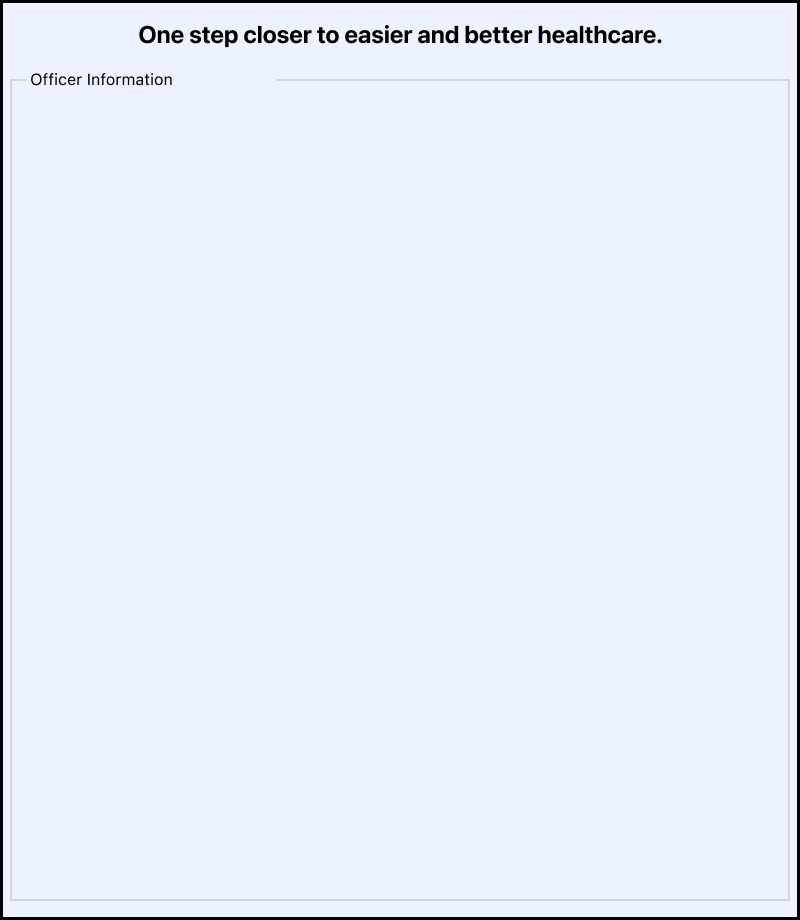
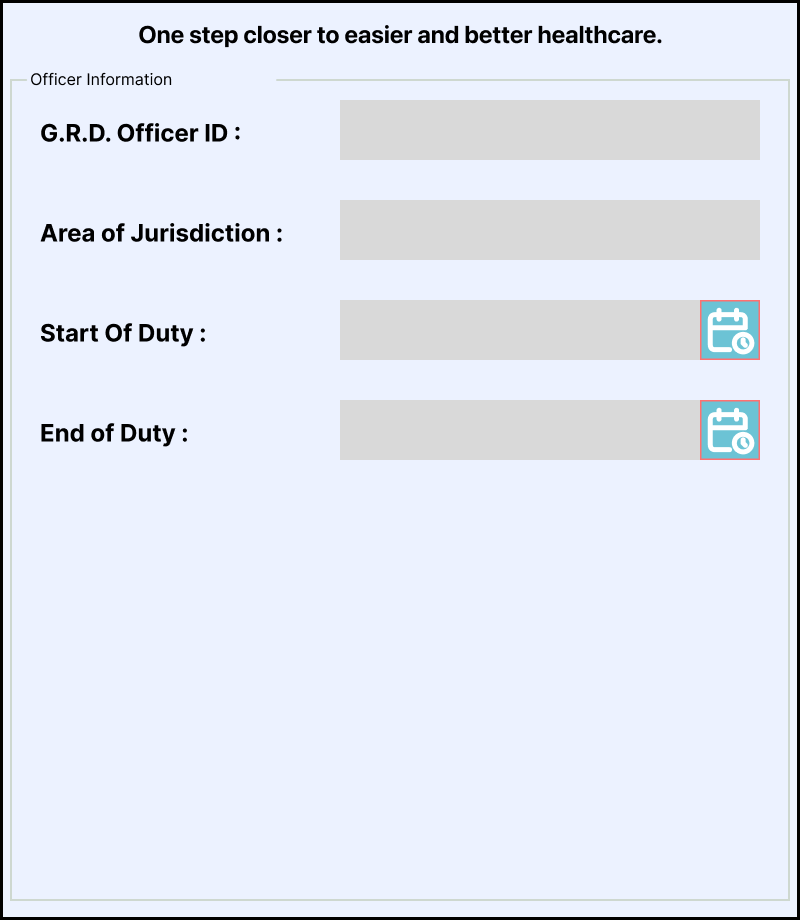
added grd registration and wip adding clinic linking and doctor reg

diff --git a/views/registrationForms/officerForm.py b/views/registrationForms/officerForm.py
@@ -6,6 +6,7 @@ import calendar
 import re
 import threading
 from tkinter import *
+from views.citystatesdict import states_dict
 from tkinter import messagebox
 from prisma.models import Appointment
 from ttkbootstrap.constants import *
@@ -38,6 +39,15 @@ class OfficerRegistrationForm(Frame):
     def createFrames(self):
         pass
 
+    def createLabels(self):
+        self.roleImg = self.controller.labelCreator(
+            ipath="assets/Registration/OfficerFormButton.png",
+            x=60, y=880, classname="roleimg", root=self.parent,
+        )
+
+    def initializeFormVars(self):
+        self.vars = {k: StringVar() for k in self.optList}
+
     def createElements(self):
         self.controller.labelCreator(
             ipath="assets/Registration/Officer/OfficerSignUpForm.png",
@@ -45,34 +55,91 @@ class OfficerRegistrationForm(Frame):
         )
         self.createLabels()
         self.createButtons()
-
-    def createLabels(self):
-        self.roleImg = self.controller.labelCreator(
-            ipath="assets/Registration/OfficerFormButton.png",
-            x=60, y=880, classname="roleimg", root=self.parent,
-        )
+        self.createEntries()
+        self.initializeFormVars()
 
     def createButtons(self):
-        OPT1STR = "Government Registered Doctor"
-        OPT2STR = "Area of Jurisdiction"
-        OPT3STR = "Other Information"
-        optList = [OPT1STR, OPT2STR, OPT3STR]
-        # creating a button arrangement of two per row
-        # iterates over the list of options and creates a button for each
-        for i, option in enumerate(optList):
-            x = 40 if i % 2 == 0 else 420
-            y = 120 + (i // 2) * 120
-            self.controller.textElement(
-                ipath="assets/Registration/Patient/PatientButtonOptionBg.png",
-                x=x, y=y, classname="formoption" + str(i + 1), root=self,
-                text=option, size=20, font=INTER,
-                buttonFunction=lambda o=option: self.loadSpecificSubmission(o)
-            )
         self.completeRegBtn = self.controller.buttonCreator(
             ipath="assets/Registration/CompleteRegButton.png",
             x=1420, y=880, classname="completeregbutton", root=self.parent,
             buttonFunction=lambda: self.confirmSubmission()
         )
+
+    def createEntries(self):
+        self.OPT1STR = "Government Registered Doctor ID"
+        self.OPT2STR = "Area of Jurisdiction"
+        self.OPT3STR = "Start of Duty"
+        self.OPT4STR = "End of Duty"
+        self.optList = [self.OPT1STR, self.OPT2STR, self.OPT3STR, self.OPT4STR]
+        X, Y, W, H, R, CN, PH = "x", "y", "width", "height", "root", "classname", "placeholder"
+        statelist = list(states_dict.keys())
+        ENTCREATOR = self.controller.ttkEntryCreator
+        param = {
+            self.OPT1STR: {
+                X: 340,
+                Y: 100,
+                W: 420,
+                H: 60,
+                CN: "grdidentry",
+                R: self,
+                PH: "Enter your GRD ID",
+            },
+            "startOfDuty": {
+                X: 340,
+                Y: 300,
+                W: 360,
+                H: 60,
+                CN: "startofdutyentry",
+                R: self,
+                PH: "Select Start of Duty",
+            },
+            "endOfDuty": {
+                X: 340,
+                Y: 400,
+                W: 360,
+                H: 60,
+                CN: "endofdutyentry",
+                R: self,
+                PH: "Select End of Duty",
+            }
+        }
+        for p in param:
+            ENTCREATOR(**param[p])
+        WD = self.controller.widgetsDict
+        self.jurisdictionState = StringVar()
+        self.controller.menubuttonCreator(
+            x=340, y=200, width=420, height=60,
+            root=self, classname="stateofjurisdiction",
+            text=f"Please Select State", listofvalues=statelist,
+            variable=self.jurisdictionState, font=("Helvetica", 12),
+            command=lambda: [None]
+        )
+
+        self.startDatePicker = self.controller.buttonCreator(
+            ipath="assets/Registration/DatePicker.png",
+            x=700, y=300, classname="datepicker_start", root=self,
+            buttonFunction=lambda: self.selectDate(
+                self.startDatePicker, WD["startofdutyentry"])
+        )
+        self.endDatePicker = self.controller.buttonCreator(
+            ipath="assets/Registration/DatePicker.png",
+            x=700, y=400, classname="datepicker_end", root=self,
+            buttonFunction=lambda: self.selectDate(
+                self.endDatePicker, WD["endofdutyentry"])
+        )
+
+    def selectDate(self, button: Button, entry: Entry):
+        dialog = DatePickerDialog(
+            parent=button, title="Select Date",
+            firstweekday=0,
+            startdate=dt.date.today(),
+        )
+        if dialog.date_selected is None:
+            return
+        date = dialog.date_selected.strftime("%d/%m/%Y")
+        entry.configure(state="normal")
+        entry.delete(0, END)
+        entry.insert(0, date)
 
     def loadSpecificSubmission(self, option: str):
         print(option)
@@ -90,7 +157,9 @@ class OfficerRegistrationForm(Frame):
         dateStr = self.parent.dateOfBirthEntry.get()  # "%d/%m/%Y"
         # datetimeObj
         dateObj = datetime.strptime(dateStr, "%d/%m/%Y")
-        doctor = prisma.doctor.create(
+        UTC = timezone("UTC")
+        KL = timezone("Asia/Kuala_Lumpur")
+        officer = prisma.govhealthofficer.create(
             data={
                 "user": {
                     "create": {
@@ -110,5 +179,13 @@ class OfficerRegistrationForm(Frame):
                         "country": self.country,
                     }
                 },
+                "govRegId": WD["grdidentry"].get(),
+                "stateManaged": self.jurisdictionState.get().upper().replace(" ", "_"),
+                "startDate": KL.convert(
+                    datetime.strptime(WD["startofdutyentry"].get(), "%d/%m/%Y")
+                ),
+                "endDate": KL.convert(
+                    datetime.strptime(WD["endofdutyentry"].get(), "%d/%m/%Y")
+                )
             }
         )

diff --git a/views/registrationForms/doctorForm.py b/views/registrationForms/doctorForm.py
@@ -10,6 +10,7 @@ from resource.basewindow import ElementCreator, gridGenerator
 from resource.static import *
 from tkinter import *
 
+from ttkbootstrap.scrolled import ScrolledText
 from ttkbootstrap.constants import *
 
 
@@ -24,10 +25,13 @@ class DoctorRegistrationForm(Frame):
         self.prisma = self.controller.mainPrisma
         self.createFrames()
         self.createElements()
-    
 
     def createFrames(self):
-        pass
+        self.inputframe = self.controller.frameCreator(
+            x=40, y=100, framewidth=720, frameheight=780,
+            bg=WHITE, classname="inputframe", root=self
+        )
+        self.inputframe.grid_remove()
 
     def createElements(self):
         self.controller.labelCreator(
@@ -36,6 +40,7 @@ class DoctorRegistrationForm(Frame):
         )
         self.createLabels()
         self.createButtons()
+        self.initializeFormVars()
 
     def createLabels(self):
         self.roleImg = self.controller.labelCreator(
@@ -44,11 +49,11 @@ class DoctorRegistrationForm(Frame):
         )
 
     def createButtons(self):
-        OPT1STR = "Employment History"
-        OPT2STR = "Education History"
-        OPT3STR = "Specialization"
-        OPT4STR = "Other Information"
-        optList = [OPT1STR, OPT2STR, OPT3STR, OPT4STR]
+        self.OPT1STR = "Employment History"
+        self.OPT2STR = "Education History"
+        self.OPT3STR = "Specialization"
+        self.OPT4STR = "Other Information"
+        optList = [self.OPT1STR, self.OPT2STR, self.OPT3STR, self.OPT4STR]
         # creating a button arrangement of two per row
         # iterates over the list of options and creates a button for each
         for i, option in enumerate(optList):
@@ -58,7 +63,7 @@ class DoctorRegistrationForm(Frame):
                 ipath="assets/Registration/Patient/PatientButtonOptionBg.png",
                 x=x, y=y, classname="formoption" + str(i + 1), root=self,
                 text=option, size=20, font=INTER,
-                buttonFunction=lambda o=option: self.loadSpecificSubmission(o)
+                buttonFunction=lambda o=option: self.loadInputForOption(o)
             )
         self.completeRegBtn = self.controller.buttonCreator(
             ipath="assets/Registration/CompleteRegButton.png",
@@ -66,8 +71,54 @@ class DoctorRegistrationForm(Frame):
             buttonFunction=lambda: self.confirmSubmission()
         )
 
-    def loadSpecificSubmission(self, option: str):
-        print(option)
+    def initializeFormVars(self):
+        self.vars = {k: StringVar() for k in [
+            self.OPT1STR, self.OPT2STR, self.OPT3STR, self.OPT4STR]}
+
+    def loadInputForOption(self, option: str):
+        self.loadInfoLabel(option)
+        self.createEditText()
+        if self.vars[option].get() != "":
+            self.inputTextSpace.insert("1.0", self.vars[option].get())
+        self.configSaveClearButtons(option)
+
+    def configSaveClearButtons(self, option):
+        BUTTONCREATOR = self.controller.buttonCreator
+
+        BUTTONCREATOR(
+            ipath="assets/Registration/Patient/Back.png", x=640, y=10,
+            classname="reg_backbutton", root=self.inputframe,
+            buttonFunction=lambda: [self.inputframe.grid_remove()],
+            isPlaced=True
+        )
+        BUTTONCREATOR(
+            ipath="assets/Registration/Patient/ClearText.png", x=100, y=680,
+            classname="reg_cleartextbutton", root=self.inputframe,
+            buttonFunction=lambda: [self.inputTextSpace.delete("1.0", END)],
+        )
+        BUTTONCREATOR(
+            ipath="assets/Registration/Patient/SaveText.png", x=400, y=680,
+            classname="reg_savetext", root=self.inputframe,
+            buttonFunction=lambda: [
+                self.vars[option].set(self.inputTextSpace.get("1.0", "end-1c"))],
+        )
+
+    def createEditText(self):
+        self.inputText = ScrolledText(
+            master=self.inputframe, width=520, height=520, padding=0,
+            bootstyle="success-round", autohide=True)
+        self.inputText.place(x=100, y=140, width=520, height=520)
+        self.inputTextSpace = self.inputText.text
+        self.inputTextSpace.config(font=("Inter", 20), fg=BLACK)
+
+    def loadInfoLabel(self, option):
+        self.inputframe.grid()
+        self.inputframe.tkraise()
+        infolabel = self.controller.textElement(
+            ipath="assets/Registration/InputFormTextBG.png", x=0, y=0,
+            classname="inputformtext", root=self.inputframe, text=f"Input your {option} here",
+            size=30, font=INTER
+        )
 
     def confirmSubmission(self):
         prisma = self.prisma

diff --git a/views/browseClinic/patientBrowse.py b/views/browseClinic/patientBrowse.py
@@ -76,30 +76,28 @@ class PatientBrowseClinic(Frame):
         self.clinicsMap.place(x=0, y=180)
         self.clinicsMap.set_address("Penang, Malaysia")
         self.clinicsMap.set_tile_server(
-            "https://mt0.google.com/vt/lyrs=m&hl=en&x ={x}&y={y}&z={z}&s=Ga", max_zoom=22) 
-        
+            "https://mt0.google.com/vt/lyrs=m&hl=en&x ={x}&y={y}&z={z}&s=Ga", max_zoom=22)
+
     def createFormEntries(self):
         CREATOR = self.controller.ttkEntryCreator
-        FONT = ("Arial", 24)
+        FONT = ("Inter", 16)
 
-        self.patientBrowserSelectAddress = CREATOR(
+        self.patientBrowserEnterAddress = CREATOR(
             x=0, y=80, width=780, height=80,
             root=self, classname="Patient_Browse_Clinic1",
-            font=FONT, isPlaced=True
+            font=FONT, isPlaced=True,
+            placeholder="Enter your address here"
         )
-
-        # Add a placeholder/hint text
-        self.patientBrowserSelectAddress.insert(0, "Enter your address here")
-       
 
         self.patientBrowserSearchClinic = CREATOR(
             x=1494, y=195, width=158, height=75,
             root=self, classname="Patient_Browse_Clinic",
-            font=FONT, isPlaced=True
+            font=FONT, isPlaced=True,
+            placeholder="Enter your address here"
         )
 
     def createbutton(self):
         self.submitButton = self.controller.buttonCreator(
-            ipath="assets/Dashboard/PatientAssets/PatientBrowseClinicSearchButton.png", x=780 , y=80,
-            classname = "PatientSetLocation" , root=self, buttonFunction=lambda:[print('print=Submit')]
+            ipath="assets/Dashboard/PatientAssets/PatientBrowseClinicSearchButton.png", x=780, y=80,
+            classname="PatientSetLocation", root=self, buttonFunction=lambda: [print('print=Submit')]
         )

diff --git a/views/appointments/patientViewAppointments.py b/views/appointments/patientViewAppointments.py
@@ -38,7 +38,7 @@ class PatientViewAppointments(Frame):
 
     def createElements(self):
         self.controller.labelCreator(
-            ipath="assets/Dashboard/PatientAssets/PatientBookAppointment.png",
+            ipath="assets/Appointments/Patient/BG.png",
             x=0, y=0, classname="appointmentspanelbg", root=self
         )
 
